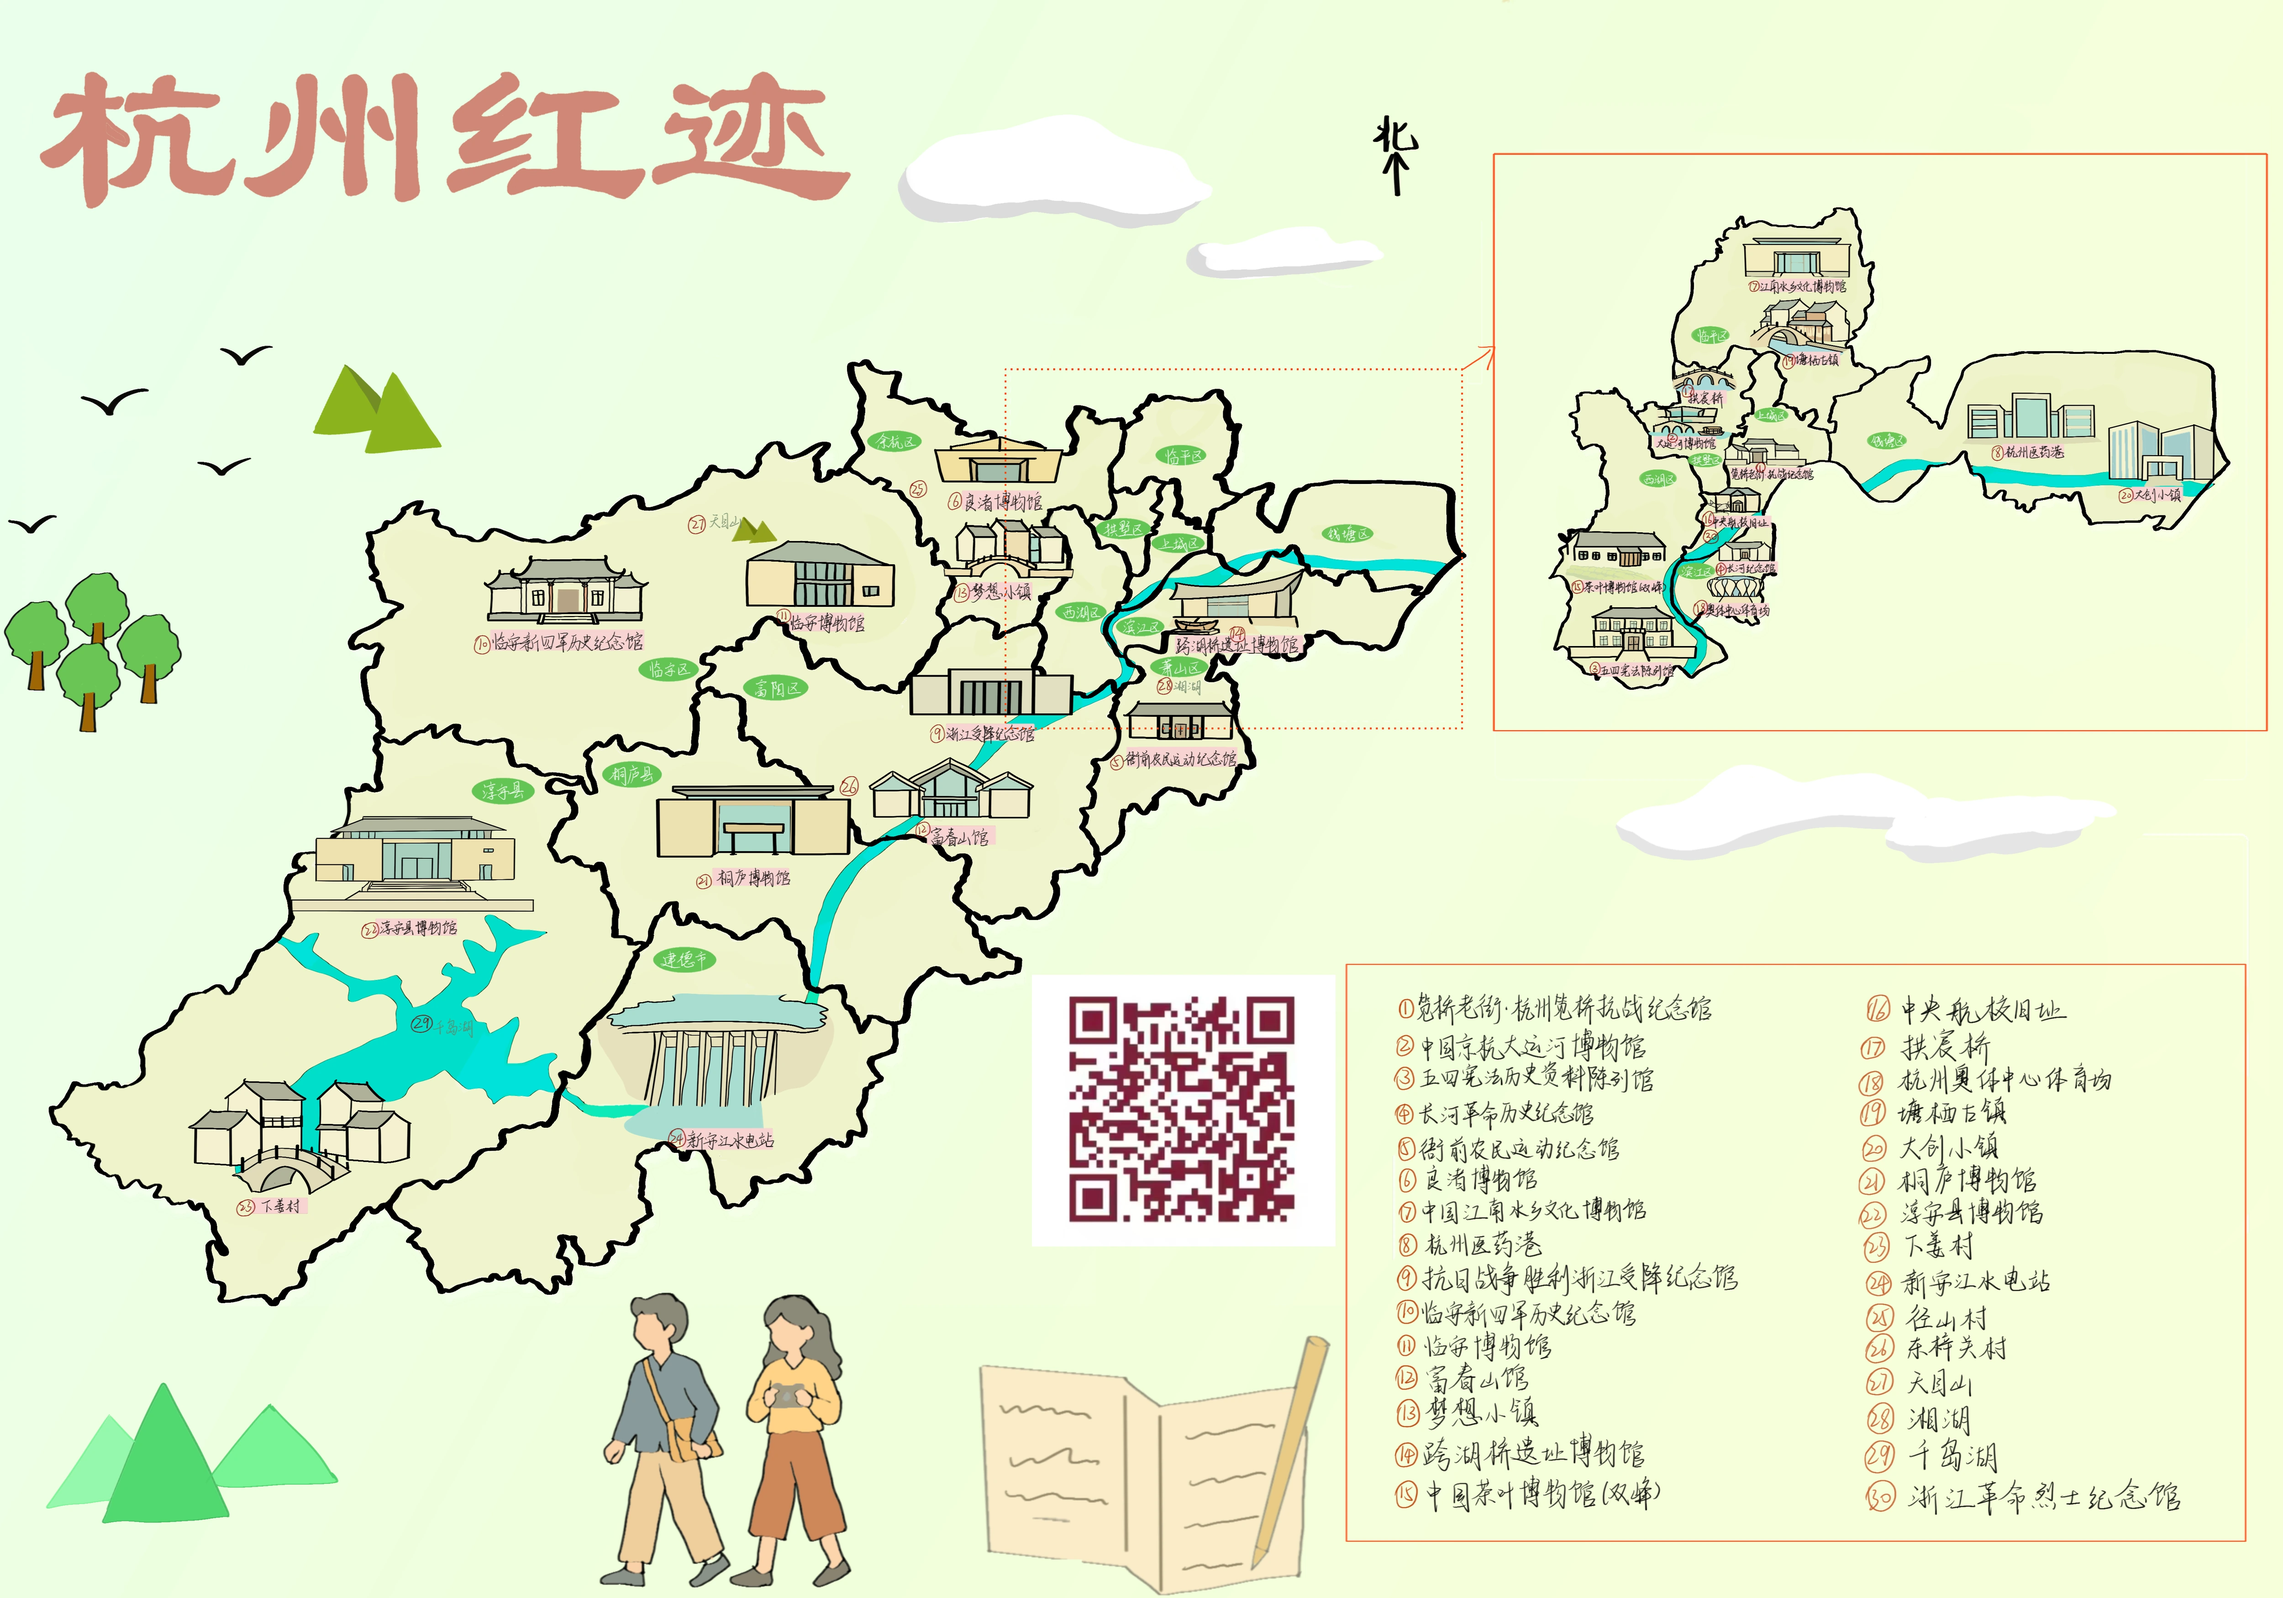
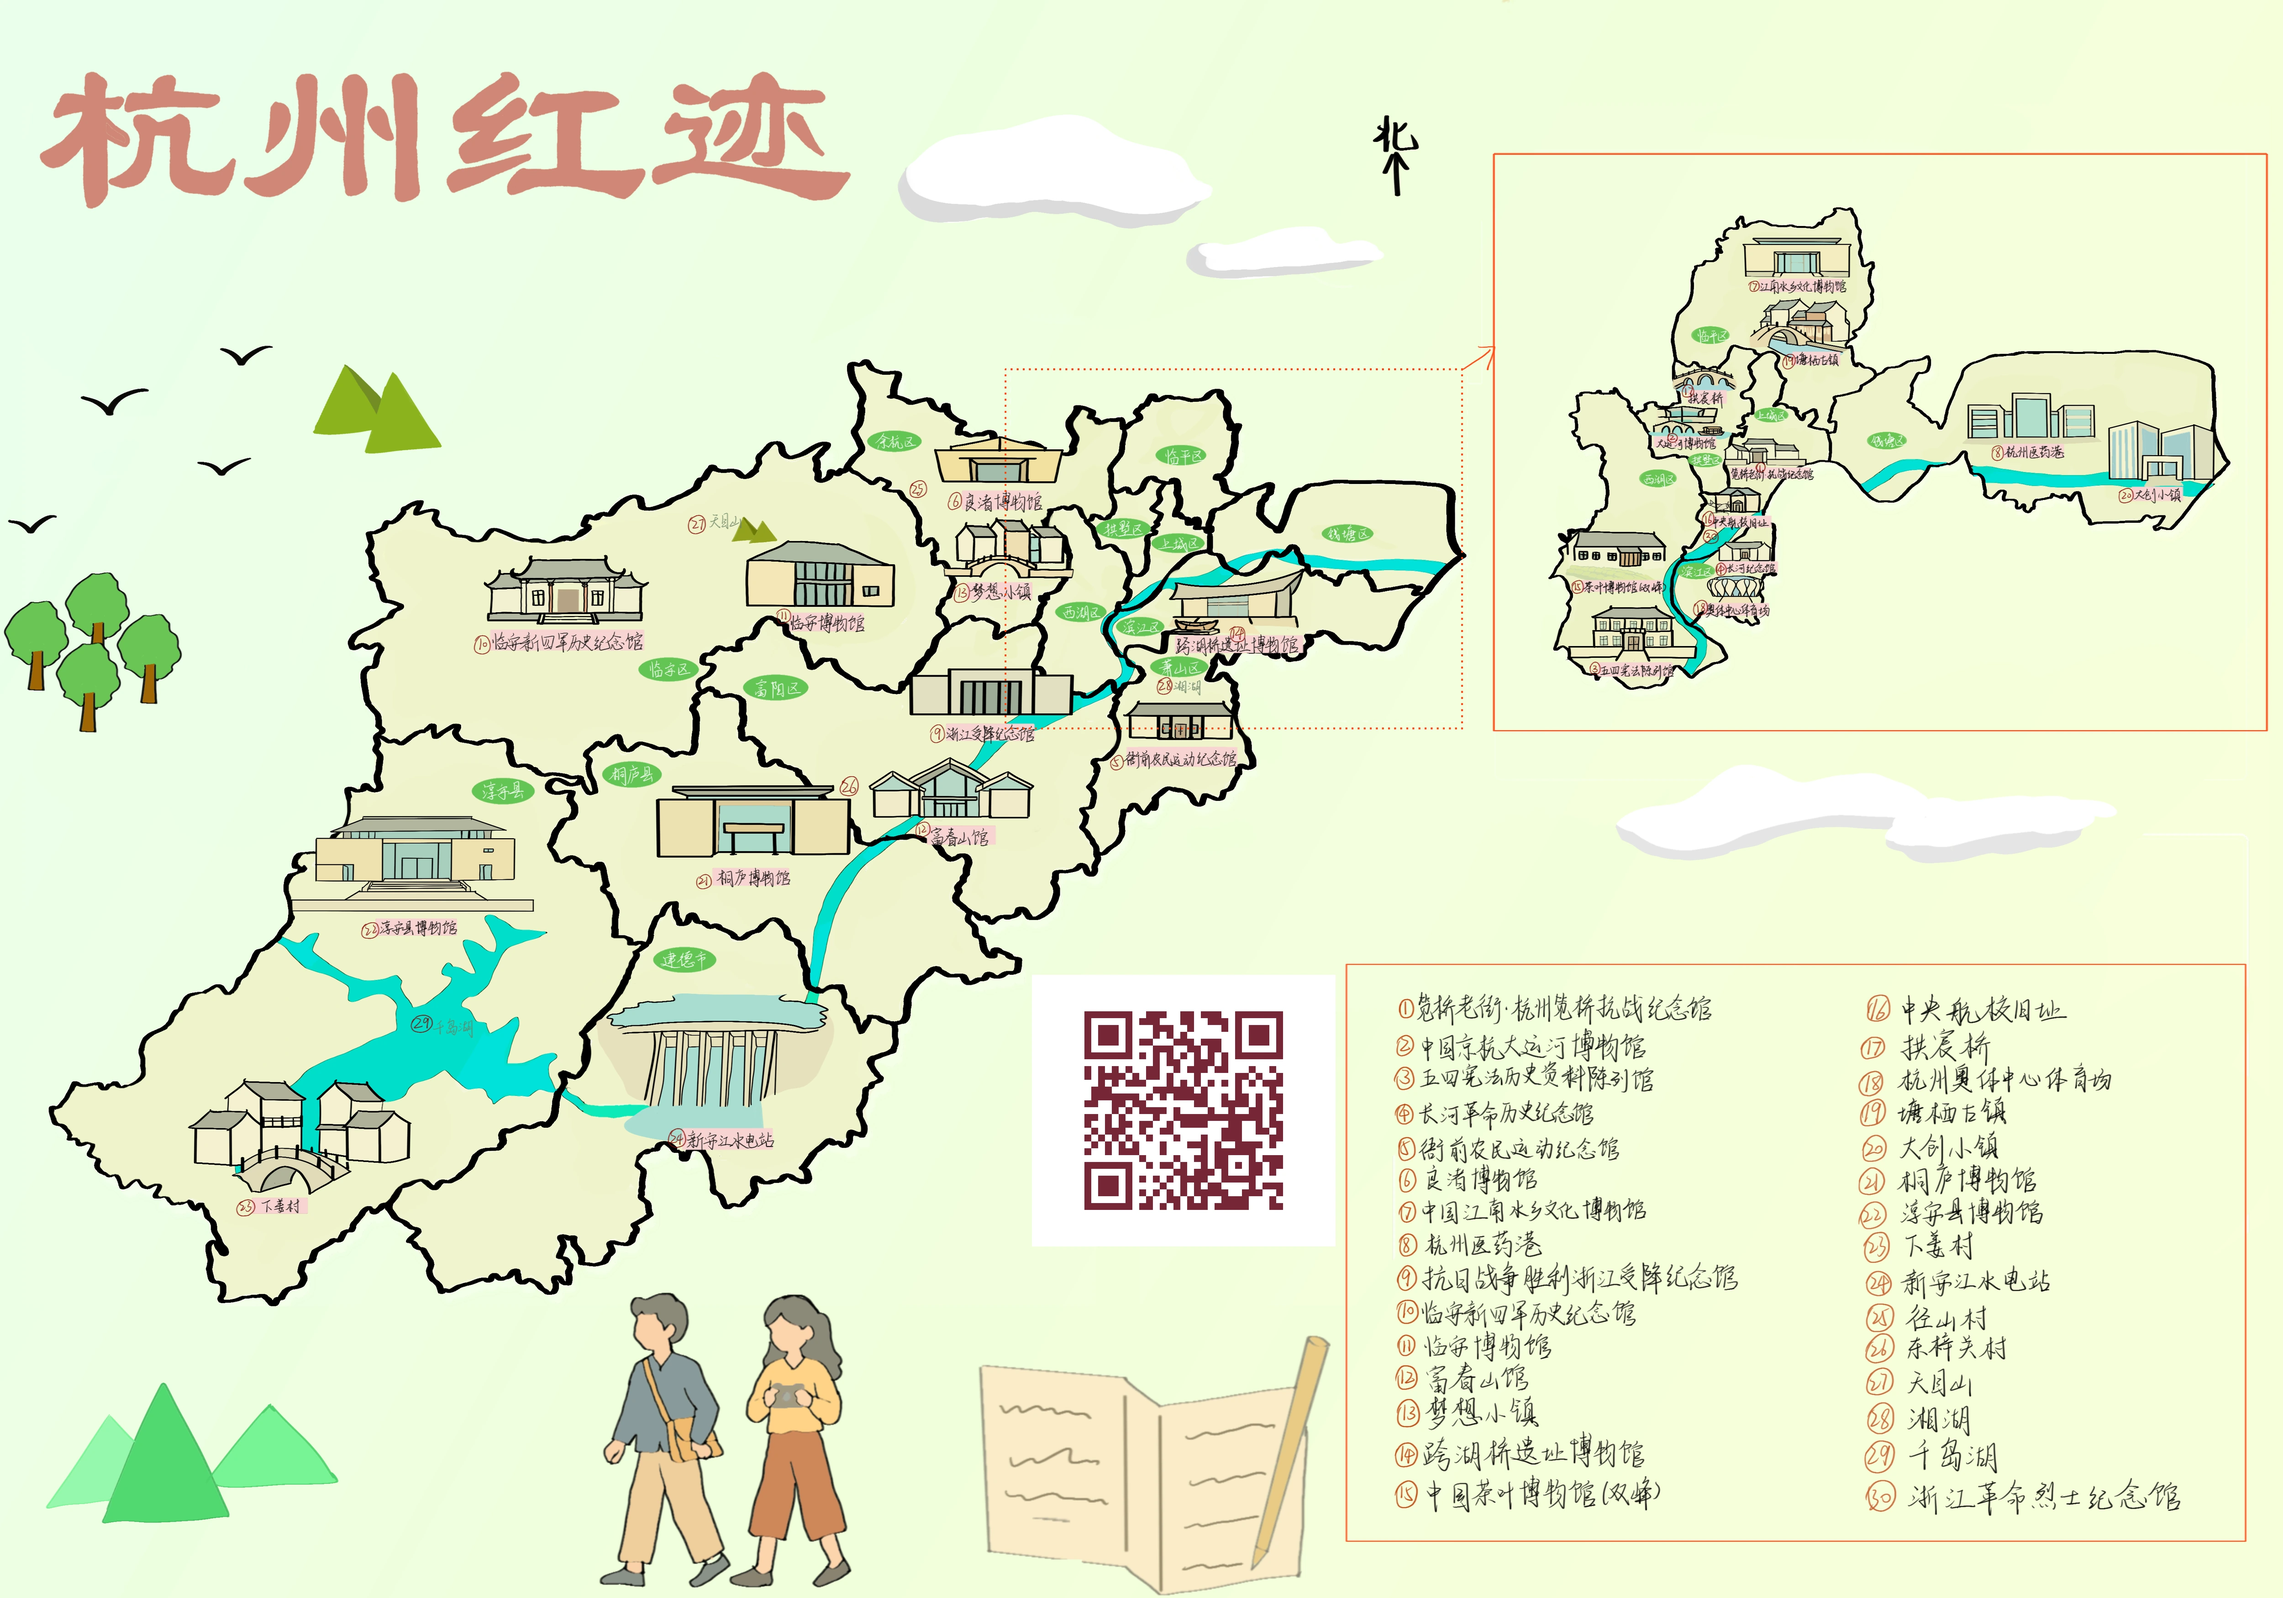
Keep fixed website QR in final hand-drawn map

Changed region(s): [[0.468, 0.6229, 0.5928, 0.7786]]

diff --git a/introduction.html b/introduction.html
@@ -28,7 +28,7 @@
   </main>
   <footer><div class="footer-inner"><a class="footer-brand" href="index.html">杭州红迹</a><div class="footer-actions"><a href="index.html">返回点位首页 ↗</a><button id="open-map-footer">查看手绘地图 ↗</button></div></div></footer>
   <dialog id="point-dialog" class="point-dialog" aria-labelledby="point-title"><button class="close-button" data-close aria-label="关闭详情">×</button><div id="point-content"></div></dialog>
-  <dialog id="map-dialog" class="map-dialog" aria-labelledby="map-title"><div class="map-toolbar"><h2 id="map-title">杭州红迹 · 手绘地图</h2><div><a href="杭州红迹-手绘地图.png?rev=9cbd29db8846" download>下载原图 ↓</a><button data-close aria-label="关闭地图">×</button></div></div><div class="map-scroll"><img src="map-detail.webp?rev=9cbd29db8846" alt="杭州红迹手绘地图，完整呈现13个区县市和30处点位" width="5000" height="3500"></div><p class="map-hint">双击地图切换放大，可滚动查看细节。</p></dialog>
+  <dialog id="map-dialog" class="map-dialog" aria-labelledby="map-title"><div class="map-toolbar"><h2 id="map-title">杭州红迹 · 手绘地图</h2><div><a href="杭州红迹-手绘地图.png?rev=0b228636c21f" download>下载原图 ↓</a><button data-close aria-label="关闭地图">×</button></div></div><div class="map-scroll"><img src="map-detail.webp?rev=0b228636c21f" alt="杭州红迹手绘地图，完整呈现13个区县市和30处点位" width="5000" height="3500"></div><p class="map-hint">双击地图切换放大，可滚动查看细节。</p></dialog>
   <dialog id="share-dialog" class="share-dialog" aria-labelledby="share-title"><button class="close-button" data-close aria-label="关闭二维码">×</button><span class="dialog-kicker">杭州红迹 · 数字导览</span><h2 id="share-title">扫码访问配套网站</h2><img src="site-qr.png" alt="杭州红迹介绍网站访问二维码" width="260" height="260"><a id="site-url" href="#"></a><a class="download-qr" href="site-qr.png" download="杭州红迹-访问二维码.png">保存二维码 ↓</a></dialog>
 </body>
 </html>

diff --git a/index.html b/index.html
@@ -33,7 +33,7 @@
     </section>
   </main>
   <dialog id="point-dialog" class="point-dialog" aria-labelledby="point-title"><button class="close-button" data-close aria-label="关闭详情">×</button><div id="point-content"></div></dialog>
-  <dialog id="map-dialog" class="map-dialog" aria-labelledby="map-title"><div class="map-toolbar"><h2 id="map-title">杭州红迹 · 手绘地图</h2><div><a href="杭州红迹-手绘地图.png?rev=9cbd29db8846" download>下载原图 ↓</a><button data-close aria-label="关闭地图">×</button></div></div><div class="map-scroll"><img src="map-detail.webp?rev=9cbd29db8846" alt="杭州红迹手绘地图，完整呈现13个区县市和30处点位" width="5000" height="3500"></div><p class="map-hint">双击地图切换放大，可滚动查看细节。</p></dialog>
+  <dialog id="map-dialog" class="map-dialog" aria-labelledby="map-title"><div class="map-toolbar"><h2 id="map-title">杭州红迹 · 手绘地图</h2><div><a href="杭州红迹-手绘地图.png?rev=0b228636c21f" download>下载原图 ↓</a><button data-close aria-label="关闭地图">×</button></div></div><div class="map-scroll"><img src="map-detail.webp?rev=0b228636c21f" alt="杭州红迹手绘地图，完整呈现13个区县市和30处点位" width="5000" height="3500"></div><p class="map-hint">双击地图切换放大，可滚动查看细节。</p></dialog>
   <dialog id="share-dialog" class="share-dialog" aria-labelledby="share-title"><button class="close-button" data-close aria-label="关闭二维码">×</button><span class="dialog-kicker">杭州红迹 · 数字导览</span><h2 id="share-title">扫码访问配套网站</h2><img src="site-qr.png" alt="杭州红迹介绍网站访问二维码" width="260" height="260"><a id="site-url" href="#"></a><a class="download-qr" href="site-qr.png" download="杭州红迹-访问二维码.png">保存二维码 ↓</a></dialog>
 </body>
 </html>
